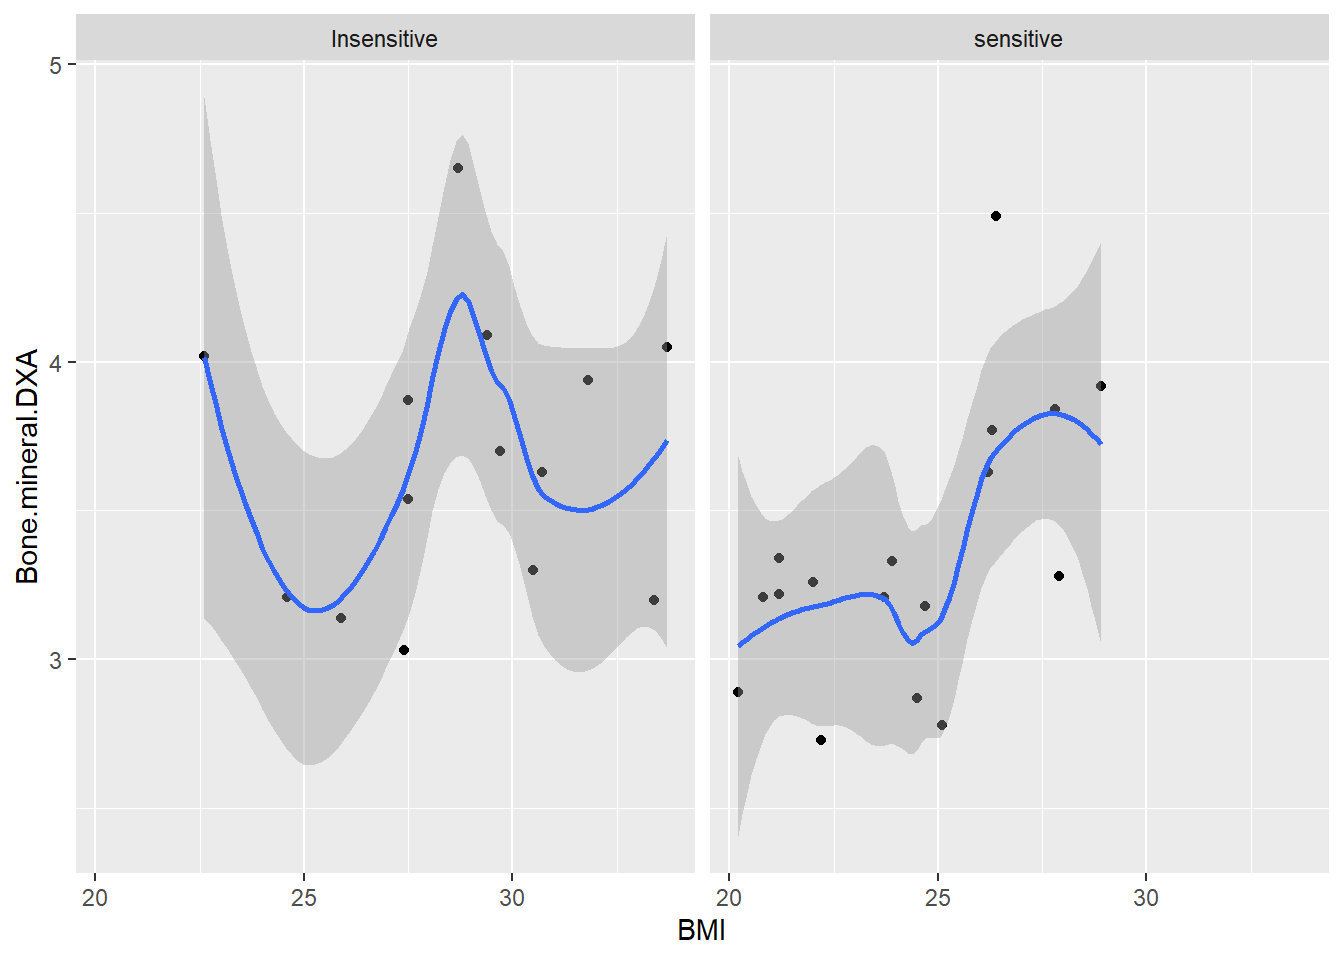
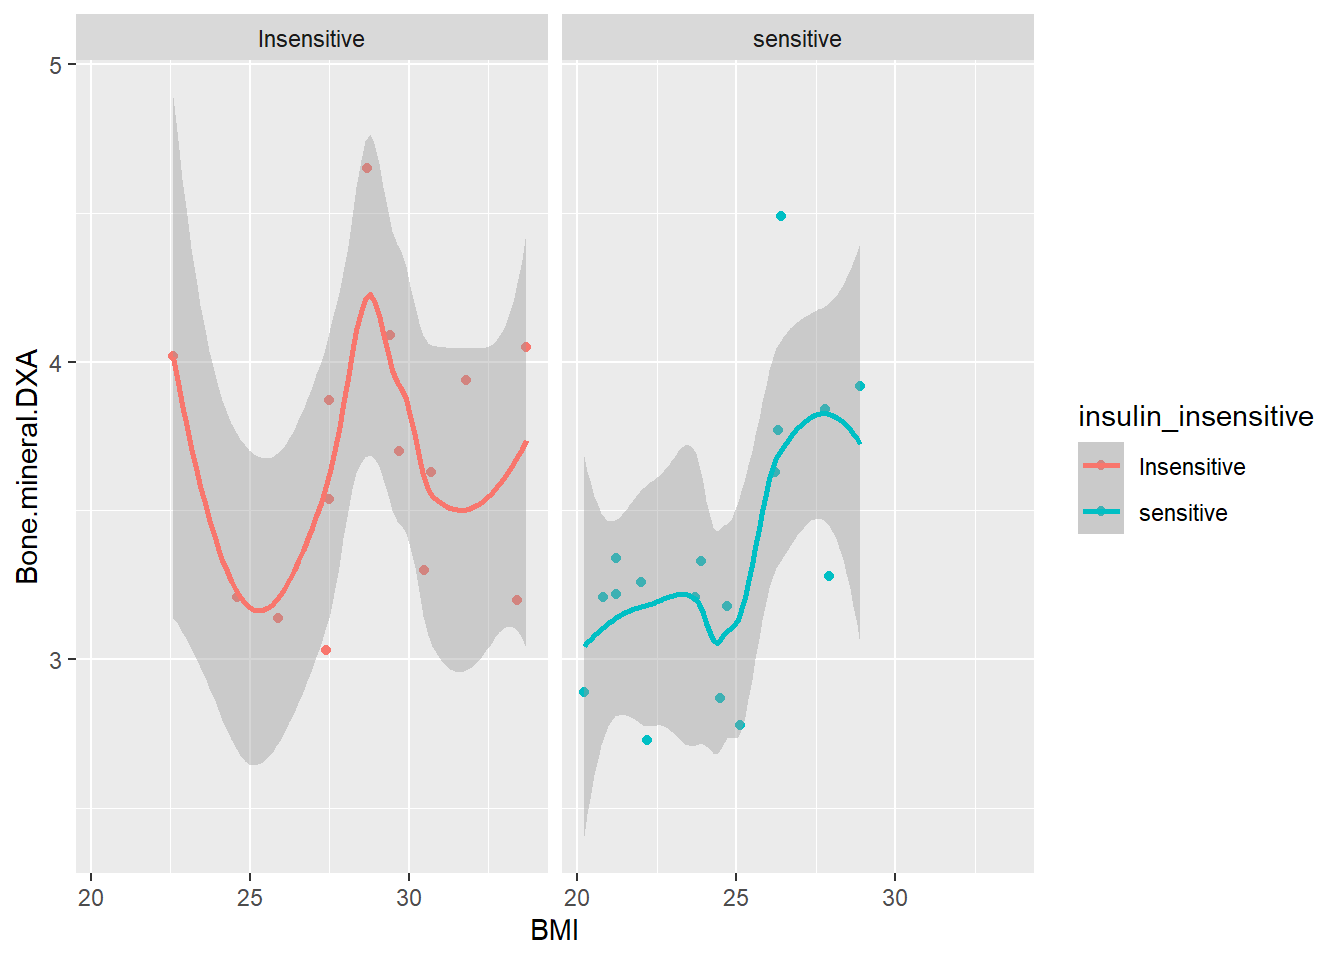
Changing colour

diff --git a/docs/learning.html b/docs/learning.html
@@ -992,7 +992,7 @@ Figure&nbsp;4: scatterplot showing BMI against AUC of blood glucose
 <span id="cb85-13"><a href="#cb85-13" aria-hidden="true" tabindex="-1"></a>    <span class="at">insulin_glucose_ratio =</span> (auc_ins <span class="sc">/</span> auc_pg),</span>
 <span id="cb85-14"><a href="#cb85-14" aria-hidden="true" tabindex="-1"></a>    <span class="at">insulin_insensitive =</span> <span class="fu">if_else</span>(insulin_glucose_ratio <span class="sc">&gt;</span> <span class="fu">mean</span>(insulin_glucose_ratio), <span class="st">"Insensitive"</span>, <span class="st">"sensitive"</span>)</span>
 <span id="cb85-15"><a href="#cb85-15" aria-hidden="true" tabindex="-1"></a>  ) <span class="sc">|&gt;</span></span>
-<span id="cb85-16"><a href="#cb85-16" aria-hidden="true" tabindex="-1"></a>  <span class="fu">ggplot</span>(<span class="fu">aes</span>(<span class="at">x =</span> BMI, <span class="at">y =</span> Bone.mineral.DXA)) <span class="sc">+</span></span>
+<span id="cb85-16"><a href="#cb85-16" aria-hidden="true" tabindex="-1"></a>  <span class="fu">ggplot</span>(<span class="fu">aes</span>(<span class="at">x =</span> BMI, <span class="at">y =</span> Bone.mineral.DXA, <span class="at">colour =</span> insulin_insensitive)) <span class="sc">+</span></span>
 <span id="cb85-17"><a href="#cb85-17" aria-hidden="true" tabindex="-1"></a>  <span class="fu">geom_point</span>() <span class="sc">+</span></span>
 <span id="cb85-18"><a href="#cb85-18" aria-hidden="true" tabindex="-1"></a>  <span class="fu">geom_smooth</span>() <span class="sc">+</span></span>
 <span id="cb85-19"><a href="#cb85-19" aria-hidden="true" tabindex="-1"></a>  <span class="fu">facet_grid</span>(<span class="at">cols =</span> <span class="fu">vars</span>(insulin_insensitive))</span></code><button title="Copy to Clipboard" class="code-copy-button"><i class="bi"></i></button></pre></div>
@@ -1034,27 +1034,59 @@ Figure&nbsp;5: Two, mult-dimensional plots of our data.
 </figcaption>
 </figure>
 </div>
-<pre><code>
-
-## About me
-
-- Lærke Karner Overgaard
-- Research unit of Clinical Pharmacology
-- Department of clinical research
-- University of Southern Denmark
-
-I am a **pharmacist** and my research is in *insulin adherence*
-
-## Simple code
-
+<pre><code>## Changing colour
 ::: {.cell}
 
 ```{.r .cell-code}
-3 * 3</code></pre>
+# Tasks 1. and 2.
+post_meal_data |&gt;
+  mutate(hyperglycemia = if_else(glykemi == 1, "Yes", "No")) |&gt;
+  ggplot(aes(x = Group, fill = hyperglycemia)) +
+  geom_bar(position = position_dodge()) +
+  scale_fill_viridis_d(option = "cirvidis")</code></pre>
+<div class="cell-output cell-output-stderr">
+<pre><code>Warning in viridisLite::viridis(n, alpha, begin, end, direction, option):
+Option 'cirvidis' does not exist. Defaulting to 'viridis'.</code></pre>
+</div>
+<div class="cell-output-display">
+<div>
+<figure class="figure">
+<p><img src="learning_files/figure-html/unnamed-chunk-24-1.png" class="img-fluid figure-img" width="672"></p>
+</figure>
+</div>
+</div>
+<div class="sourceCode cell-code" id="cb89"><pre class="sourceCode r code-with-copy"><code class="sourceCode r"><span id="cb89-1"><a href="#cb89-1" aria-hidden="true" tabindex="-1"></a><span class="co"># Tasks 3. and 4.</span></span>
+<span id="cb89-2"><a href="#cb89-2" aria-hidden="true" tabindex="-1"></a>post_meal_data <span class="sc">|&gt;</span></span>
+<span id="cb89-3"><a href="#cb89-3" aria-hidden="true" tabindex="-1"></a>  <span class="fu">ggplot</span>(<span class="fu">aes</span>(<span class="at">x =</span> auc_pg, <span class="at">y =</span> auc_ins, <span class="at">colour =</span> BMI)) <span class="sc">+</span></span>
+<span id="cb89-4"><a href="#cb89-4" aria-hidden="true" tabindex="-1"></a>  <span class="fu">geom_point</span>() <span class="sc">+</span></span>
+<span id="cb89-5"><a href="#cb89-5" aria-hidden="true" tabindex="-1"></a>  <span class="fu">scale_colour_viridis_c</span>(<span class="at">option =</span> <span class="st">"inferno"</span>)</span></code><button title="Copy to Clipboard" class="code-copy-button"><i class="bi"></i></button></pre></div>
+<div class="cell-output-display">
+<div>
+<figure class="figure">
+<p><img src="learning_files/figure-html/unnamed-chunk-24-2.png" class="img-fluid figure-img" width="672"></p>
+</figure>
+</div>
+</div>
+<p>:::</p>
+</section>
+<section id="about-me" class="level2">
+<h2 class="anchored" data-anchor-id="about-me">About me</h2>
+<ul>
+<li>Lærke Karner Overgaard</li>
+<li>Research unit of Clinical Pharmacology</li>
+<li>Department of clinical research</li>
+<li>University of Southern Denmark</li>
+</ul>
+<p>I am a <strong>pharmacist</strong> and my research is in <em>insulin adherence</em></p>
+</section>
+<section id="simple-code" class="level2">
+<h2 class="anchored" data-anchor-id="simple-code">Simple code</h2>
+<div class="cell">
+<div class="sourceCode cell-code" id="cb90"><pre class="sourceCode r code-with-copy"><code class="sourceCode r"><span id="cb90-1"><a href="#cb90-1" aria-hidden="true" tabindex="-1"></a><span class="dv">3</span> <span class="sc">*</span> <span class="dv">3</span></span></code><button title="Copy to Clipboard" class="code-copy-button"><i class="bi"></i></button></pre></div>
 <div class="cell-output cell-output-stdout">
 <pre><code>[1] 9</code></pre>
 </div>
-<p>:::</p>
+</div>
 </section>
 <section id="testing-for-git" class="level2">
 <h2 class="anchored" data-anchor-id="testing-for-git">Testing for Git</h2>
